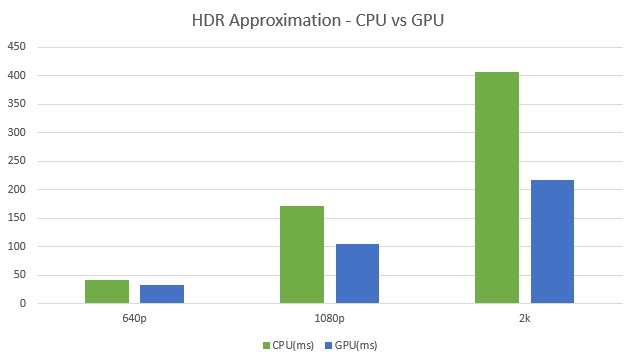
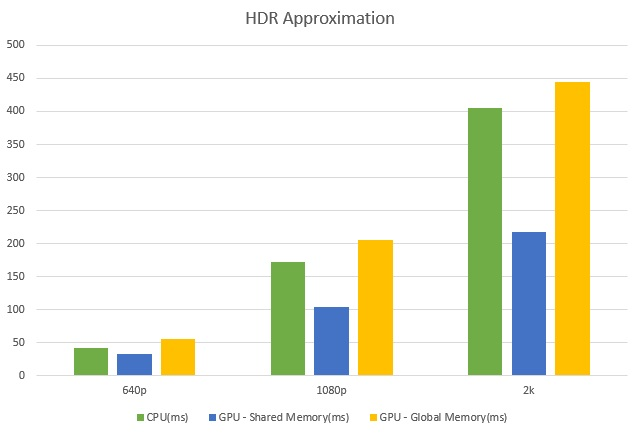
Added global memory performance measure

diff --git a/README.md b/README.md
@@ -45,9 +45,15 @@ The block size was selected at 256 which was found to give the best performance 
 
 ![](images/hdrchart.jpg)
 
-The block size was selected at 1024 which was found to give the best performance in GPU.
+The block size was selected at 1024 which was found to give the best performance in GPU. You can see here that HDR tone mapping done on GPU using global memory take more time to compute than the CPU. This shows how important the use of shared memory is to maximize the eficiency of GPU's parallelism.
 
 ![](images/hdrgraph.jpg)
+
+# Bloopers:
+
+When you are bound by your GPU's maximum number of threads per block: Messed-up color channel!! :P
+
+![](images/blooper.jpg)
 
 # References:
 
